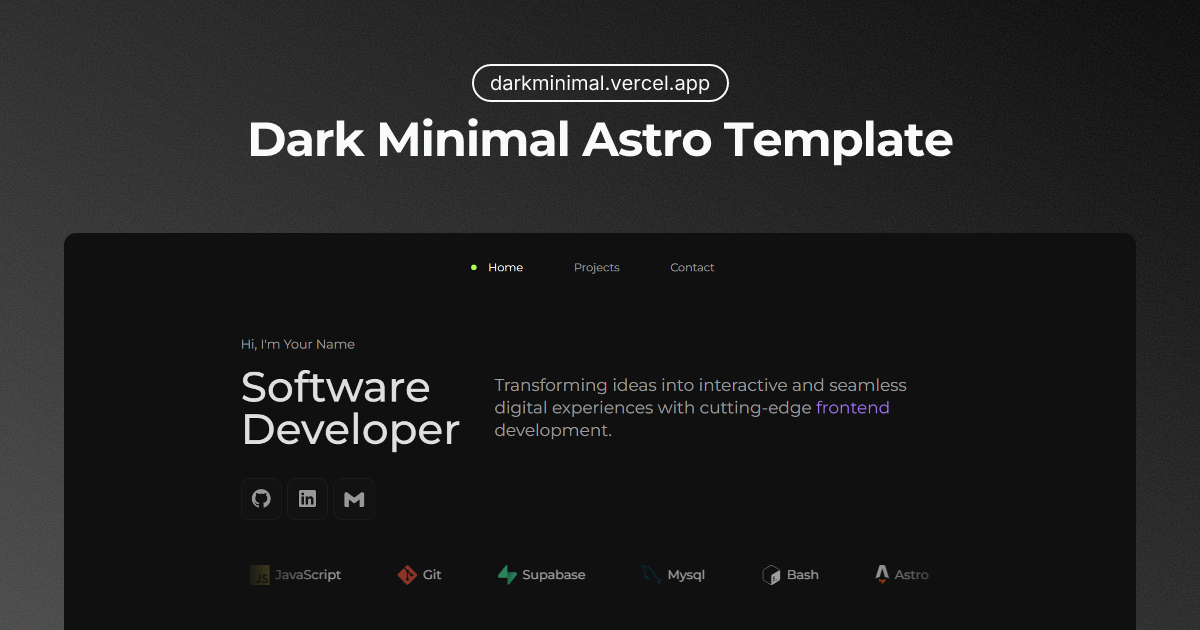
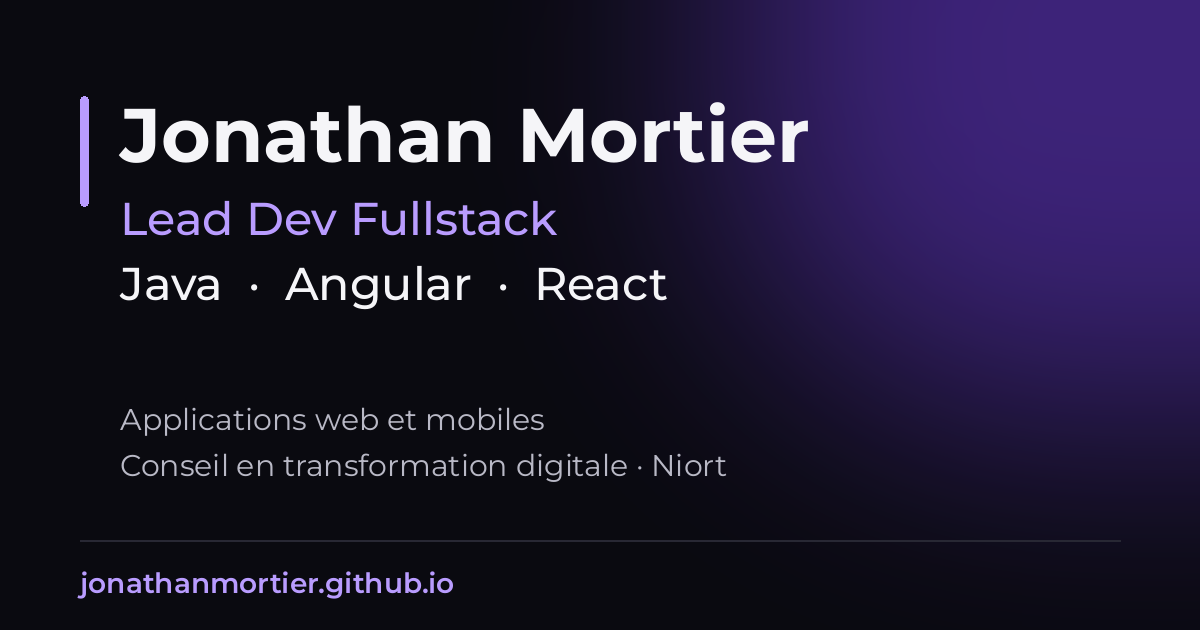
SEO: balises par page, sitemap, RSS, JSON-LD, image de partage

diff --git a/src/pages/rss.xml.js b/src/pages/rss.xml.js
@@ -1,0 +1,21 @@
+import rss from "@astrojs/rss";
+import { getCollection } from "astro:content";
+
+export async function GET(context) {
+  const posts = (await getCollection("blog")).sort(
+    (a, b) => b.data.date.valueOf() - a.data.date.valueOf()
+  );
+  return rss({
+    title: "Blog de Jonathan Mortier",
+    description: "Notes et astuces de développement : Java, Maven, Git, JavaScript, Ubuntu.",
+    site: context.site,
+    customData: "<language>fr-FR</language>",
+    items: posts.map((post) => ({
+      title: post.data.title,
+      description: post.data.description,
+      pubDate: post.data.date,
+      link: `/blog/${post.id}/`,
+      categories: post.data.tags,
+    })),
+  });
+}

diff --git a/src/content.config.ts b/src/content.config.ts
@@ -6,6 +6,7 @@ const blog = defineCollection({
   loader: glob({ pattern: "**/*.md", base: "./src/content/blog" }),
   schema: z.object({
     title: z.string(),
+    description: z.string(),
     date: z.coerce.date(),
     tags: z.array(z.string()).default([]),
   }),

diff --git a/src/content/blog/console-log-js.md b/src/content/blog/console-log-js.md
@@ -1,5 +1,6 @@
 ---
 title: "Les pouvoirs (cachés) de console.log"
+description: "Les fonctions cachées de console.log en JavaScript pour améliorer la gestion des logs dans la console."
 date: 2018-10-18
 tags: ["log", "JavaScript"]
 ---

diff --git a/src/content/blog/import-maven-overlay.md b/src/content/blog/import-maven-overlay.md
@@ -1,5 +1,6 @@
 ---
 title: "Import classes from a jar with Maven"
+description: "Importer des classes spécifiques d'un jar avec Maven grâce aux overlays du maven-war-plugin."
 date: 2016-06-08
 tags: ["maven", "java"]
 ---

diff --git a/src/content/blog/stash-file.md b/src/content/blog/stash-file.md
@@ -1,5 +1,6 @@
 ---
 title: "Exporter un stash dans un fichier"
+description: "Exporter un git stash dans un fichier patch pour continuer un développement sur un autre poste."
 date: 2019-04-10
 tags: ["Git"]
 ---

diff --git a/src/content/blog/switch-hava-version-ubuntu.md b/src/content/blog/switch-hava-version-ubuntu.md
@@ -1,5 +1,6 @@
 ---
 title: "Changer de version de Java rapidement"
+description: "Changer rapidement de version de Java sur Ubuntu avec une seule commande."
 date: 2019-07-08
 tags: ["Java", "Ubuntu"]
 ---

diff --git a/src/content/blog/first-post.md b/src/content/blog/first-post.md
@@ -1,5 +1,6 @@
 ---
 title: "Premier post !"
+description: "Premier article : bienvenue sur mon site hébergé sur GitHub Pages."
 date: 2016-05-24
 tags: ["jekyll", "cv"]
 ---
